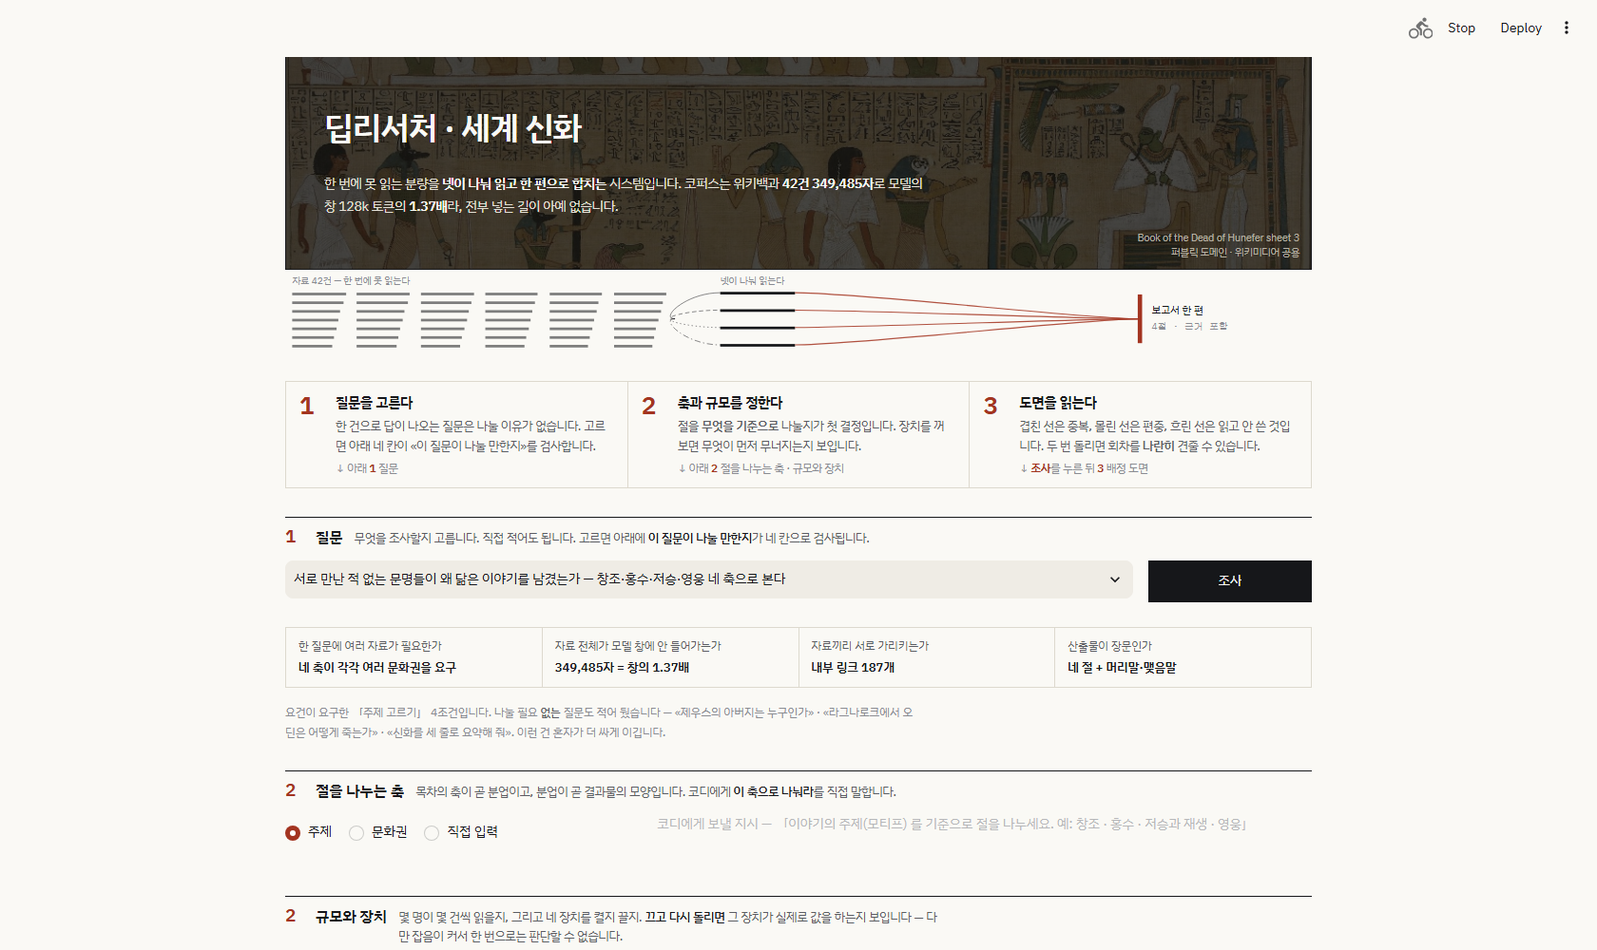
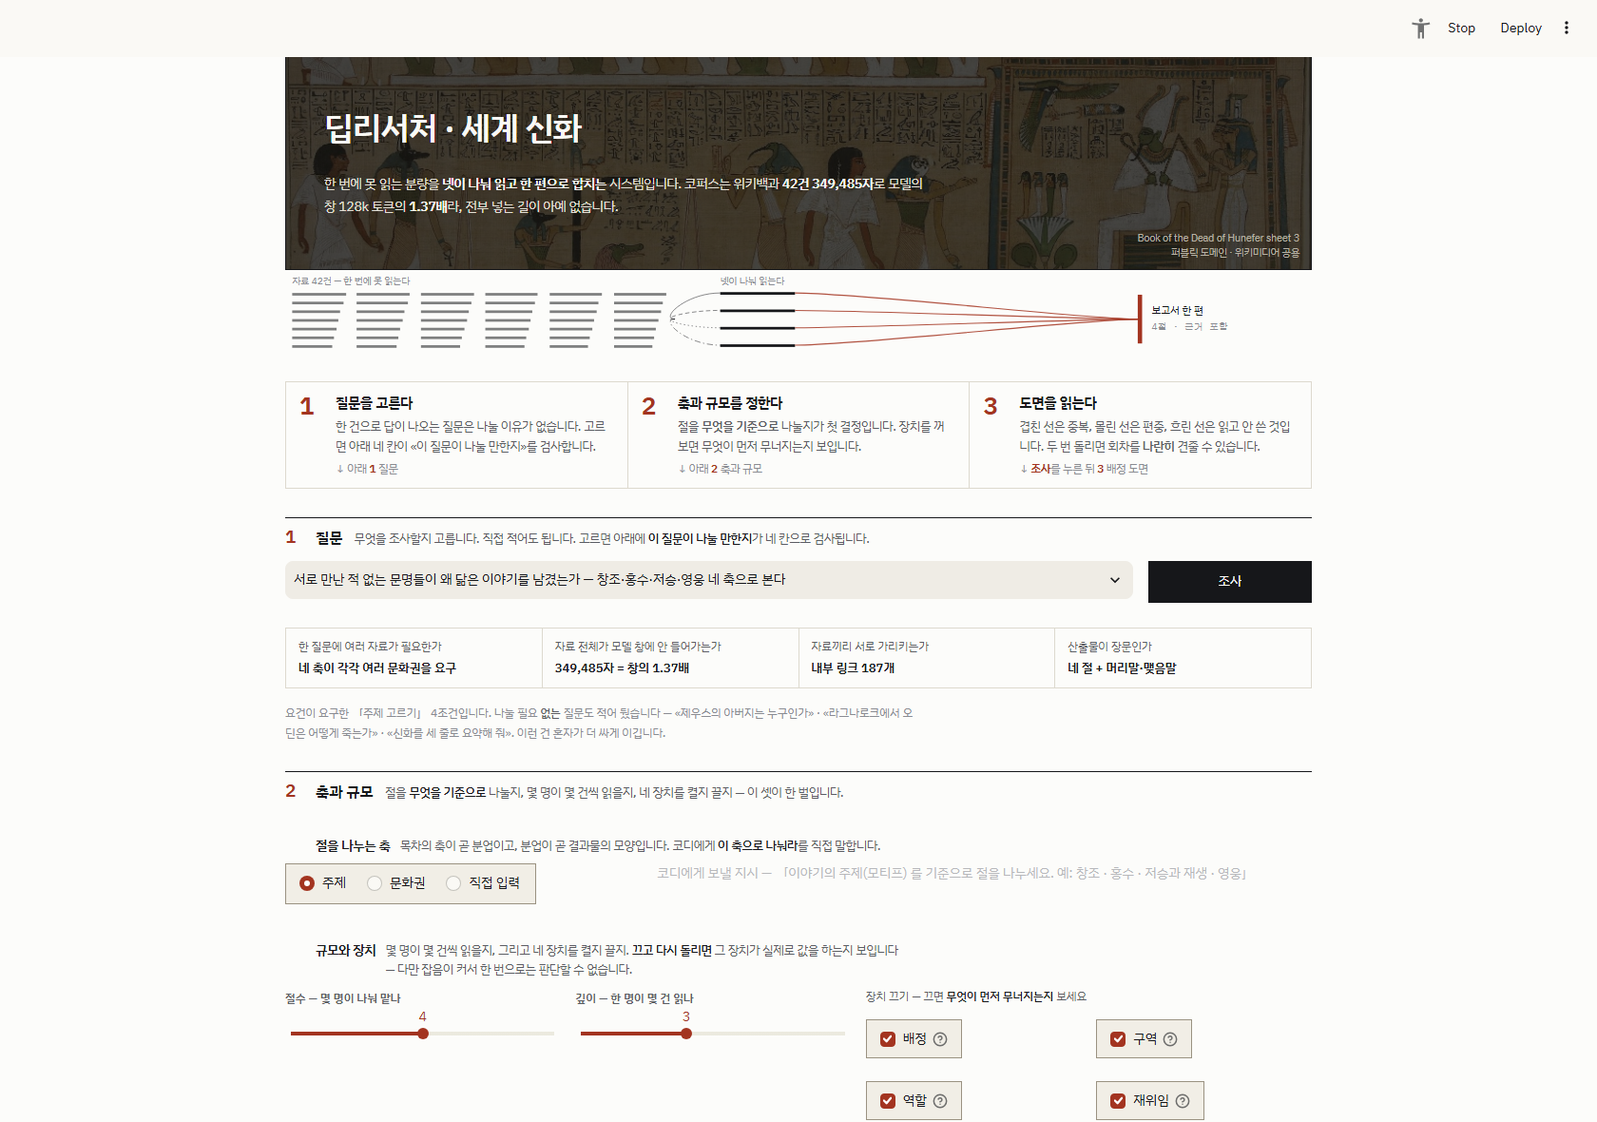
fix(m5n9): 조작면으로 위계 · 죽어 있던 표 · 번호 겹침 · 그물 구멍 셋
주영님 지적 둘에서 시작해 ★내 버그 넷이 드러났다.

★「뭘 눌러야 하는지 모르겠다」 — 색이 아니라 «면»이 없었다
  찾아보니 원인이 색의 «가짓수»가 아니었다.
    NN/g       그림자를 뺐으면 색이 두 배로 일한다.
               글자 4.5:1 만이 아니라 ★조작요소 «경계»가 3:1 (WCAG 1.4.11)
    Atlassian  평면 디자인의 elevation 은 그림자가 아니라 ★면 색의 차이
  ⇒ 미색을 «페이지»에서 «조작면»으로 옮겼다.
    전  페이지가 미색 · 조작요소는 그 위 연한 테두리   ⇒ 글과 안 갈림
    후  페이지는 밝게 · 조작요소만 미색 면 + 진한 경계  ⇒ 누를 곳이 뜬다
  ⛔새 색을 들이지 않았다 — 쓰던 미색의 «자리만» 옮겼다. 그림자는 여전히 0.
  ★경계색은 3:1 을 넘는 «가장 밝은» 값을 찾아 골랐다(#9A9281 · 3.01:1).
    처음 고른 #9C9483 은 2.93:1 로 ★0.07 모자라 assert 에 걸렸다 — 눈으론 모를 차이.
  배경 #FAF9F5 → #FCFCFA (흰색까지 남은 색 21 → 11 · ★48% 뺌)

★캡처가 «죽어 있던 표»를 찾아냈다 — 두 번째로 UI 가 버그를 드러냈다
  ArrowTypeError: Conversion failed for column 값
  계기판 표의 값 열에 문자열(「3건」)과 정수가 섞여 Arrow 가 통일을 못 했고,
  ★표가 통째로 죽으며 뒤 렌더링이 멈췄다.
  ⚠expander 안이라 «접혀 있으면 안 보인다» — 손으로 찍었으면 끝내 몰랐다.
  ① 숫자만 볼 땐 안 보였다 → 도면을 그리니 판정 이중화가 드러났다
  ② 손으로 찍을 땐 안 보였다 → 자동으로 찍으니 죽은 표가 드러났다

★그물에 구멍이 셋 있었다 — 이 프로젝트의 주제가 그대로 나에게 왔다
  ① 「문법 OK」인데 앱은 죽어 있었다
     css() 는 % 포매팅을 쓴다. width:100% 를 그냥 적었더니 ast.parse 는
     통과하고 «부르는 순간» TypeError. 레드팀은 「문법 ui.py OK」라 했다.
     ⇒ ★파싱은 실행이 아니다. 이제 ui.css() 를 «실제로 부른다».
  ② 전역 클래스 .sub 가 괘선()·표제와 겹쳐 ★엉뚱한 안내문이 줄줄이 끊겼다
     ⇒ 겹치는 최상위 클래스를 «센다».
  ③ 손으로 박은 수치가 또 거짓말 — ★네 번째 같은 사고
     빈 화면 안내에 「12번 · 15.0%p · 11.7%p」. 실측은 15번 · 25.6 · 17.8.
     ⇒ compare.잡음대차이() 한 곳에서 찍어낸다.
     ①config.json 밖 도메인값 ②metrics 밖 판정 ③같은설정 목록 ④이번.
     ★적어 둔다고 안 새고, «찍어내게» 만들어야 안 샌다.

번호가 2 · 2 로 겹쳤다 — 번호가 순서의 증거 구실을 못 한다
  축과 규모를 두 띠로 나눠 놓고 둘 다 2 를 달았다. 한 띠로 합쳤다.
[…]

diff --git a/05_module5/d_hw_N9-myth-research/app.py b/05_module5/d_hw_N9-myth-research/app.py
@@ -107,6 +107,23 @@ else:
 #   막대 하나가 실제 문서이고 길이가 실제 글자 수다.
 H('<div class="hero">%s</div>' % mapviz.표제(agent.DOCS, agent.설정["절수"]))
 
+def _잡음문장():
+    """★수치를 «손으로» 적지 않는다 — 측정 파일에서 찍어낸다."""
+    r = compare.잡음대차이()
+    if not r:
+        return ("아직 절제 실험 기록이 없습니다 — "
+                "<code>python ablation.py</code> 를 돌리면 "
+                "여기에 잡음 폭이 적힙니다.")
+    크다 = r["잡음"] > r["차이"]
+    return ("미리 적어 둡니다 — 같은 설정을 <b class='num'>%d</b>번 돌려 잰 "
+            "잡음이 <b class='num'>%.1f%%p</b>이고, 장치를 바꾼 조건 "
+            "<b class='num'>%d</b>개의 차이는 <b class='num'>%.1f%%p</b>입니다. "
+            "<b>%s</b> 한 번 돌린 숫자로 판단하지 마세요."
+            % (r["n"], r["잡음"] * 100, r["조건수"], r["차이"] * 100,
+               "잡음이 차이보다 큽니다."
+               if 크다 else "차이가 잡음보다 큽니다."))
+
+
 # ★사용법 — 처음 온 사람은 아래 칸들이 «왜» 있는지 모른다
 H('<div class="how">'
   '<div class="s"><div class="n">1</div><div>'
@@ -118,8 +135,8 @@ H('<div class="how">'
   '<div class="t">축과 규모를 정한다</div>'
   '<div class="d">절을 <b>무엇을 기준으로</b> 나눌지가 첫 결정입니다. '
   '장치를 꺼 보면 무엇이 먼저 무너지는지 보입니다.</div>'
-  '<div class="go">↓ 아래 <b style="color:%s">2</b> 절을 나누는 축 · 규모와 장치'
-  '</div></div></div>'
+  '<div class="go">↓ 아래 <b style="color:%s">2</b> 축과 규모</div>'
+  '</div></div>'
   '<div class="s"><div class="n">3</div><div>'
   '<div class="t">도면을 읽는다</div>'
   '<div class="d">겹친 선은 중복, 몰린 선은 편중, 흐린 선은 읽고 안 쓴 것입니다. '
@@ -164,10 +181,15 @@ H('<div class="note">요건이 요구한 「주제 고르기」 4조건입니다
                for x in QS["⛔나눌 필요 없음 — 대조용 반례"]))
 
 # ── ★축 — 이 프로젝트의 핵심 조작. 맨 앞에 둔다 ──────────────────
+# ★한 띠다 — 머리의 「2 축과 규모를 정한다」와 «글자까지» 맞춘다.
+#   전에는 여기와 아래가 각각 «2» 를 달아, 번호가 순서의 증거 구실을 못 했다.
 H('<div class="bar"><div class="no">2</div>'
-  '<div class="lbl">절을 나누는 축</div>'
-  '<div class="hint">목차의 축이 곧 분업이고, 분업이 곧 결과물의 모양입니다. '
-  '코디에게 <b>이 축으로 나눠라</b>를 직접 말합니다.</div></div>')
+  '<div class="lbl">축과 규모</div>'
+  '<div class="hint">절을 <b>무엇을 기준으로</b> 나눌지, 몇 명이 몇 건씩 읽을지, '
+  '네 장치를 켤지 끌지 — 이 셋이 한 벌입니다.</div></div>')
+H('<div class="pair"><b>절을 나누는 축</b>'
+  '<span>목차의 축이 곧 분업이고, 분업이 곧 결과물의 모양입니다. '
+  '코디에게 <b>이 축으로 나눠라</b>를 직접 말합니다.</span></div>')
 a1, a2 = st.columns([1.1, 2])
 with a1:
     _축들 = ["주제", "문화권", "직접 입력"]
@@ -193,11 +215,10 @@ with a2:
                    "예: %s」" % (축지시["이름"], 축지시["예"]))
 
 # ── 설정 — ⛔접지 않는다. 지금 값이 «보여야» 한다 ─────────────────
-H('<div class="bar"><div class="no">2</div>'
-  '<div class="lbl">규모와 장치</div>'
-  '<div class="hint">몇 명이 몇 건씩 읽을지, 그리고 네 장치를 켤지 끌지. '
+H('<div class="pair"><b>규모와 장치</b>'
+  '<span>몇 명이 몇 건씩 읽을지, 그리고 네 장치를 켤지 끌지. '
   '<b>끄고 다시 돌리면</b> 그 장치가 실제로 값을 하는지 보입니다 — '
-  '다만 잡음이 커서 한 번으로는 판단할 수 없습니다.</div></div>')
+  '다만 잡음이 커서 한 번으로는 판단할 수 없습니다.</span></div>')
 b1, b2, b3 = st.columns([1, 1, 1.6])
 with b1:
     절수 = st.slider("절수 — 몇 명이 나눠 맡나", 2, 6, agent.설정["절수"])
@@ -270,10 +291,7 @@ if not S:
        "질문을 고르고 <b>조사</b>를 누르면 문서 %d건이 조사관에게 어떻게 "
        "나뉘는지가 이 자리에 그려집니다. 선이 겹치면 중복이고, 한 문서로 "
        "몰리면 편중이고, 흐린 선은 읽고 쓰지 않은 것입니다.<br><br>"
-       "미리 적어 둡니다 — 같은 설정을 12번 돌려 잰 잡음이 "
-       "<b class='num'>15.0%%p</b>이고 장치를 바꾼 조건들의 차이는 "
-       "<b class='num'>11.7%%p</b>입니다. <b>잡음이 차이보다 큽니다.</b> "
-       "한 번 돌린 숫자로 판단하지 마세요." % co["문서"])
+       "%s" % (co["문서"], _잡음문장()))
     st.stop()
 
 m = S["metrics"]
@@ -376,10 +394,14 @@ H('<ul class="read">%s</ul>' % "".join(
     for a, b in mapviz.판독(agent.DOCS, secs, 실인용맵, m)))
 
 with st.expander("계기판 전체 — 지표마다 어느 장치를 보는 신호인가"):
+    # ★한 열에 «문자열과 정수»가 섞이면 Arrow 가 통일을 못 해 표가 통째로
+    #   죽는다(ArrowTypeError). 게다가 이건 expander 안이라 ★접혀 있으면
+    #   안 보인다 — 캡처를 자동으로 찍다가 드러났다.
+    #   ⇒ 화면에 내보내는 열은 «전부 문자열»로 맞춘다.
     st.table([{"지표": k,
                "값": ("%d건" % len(m[k])) if isinstance(m.get(k), list)
                else (("%.1f%%" % (m[k] * 100)) if isinstance(m.get(k), float)
-                     else m.get(k)),
+                     else str(m.get(k))),
                "종류": v["종류"].replace("★", ""), "어느 장치": v["장치"],
                "한 줄": v["한 줄"]}
               for k, v in 지표사전.items() if k in m])

diff --git a/05_module5/d_hw_N9-myth-research/ui.py b/05_module5/d_hw_N9-myth-research/ui.py
@@ -19,7 +19,7 @@
 
 # ── 토큰 — DESIGN.md §토큰 그대로 ─────────────────────────────────
 C = {
-    "paper": "#FAF9F5",    # 미색. ⛔순백 아님 · 베이지도 아님
+    "paper": "#FCFCFA",    # ★밝게. 미색은 «조작면»으로 옮겼다
     "ink": "#16171A",      # 본문. ⛔순흑 아님
     "ink60": "#5B5D63",
     "ink40": "#8A8C92",
@@ -27,6 +27,13 @@ C = {
     "rule2": "#EFECE5",
     "mark": "#A33420",     # ★강조 «단 하나» — 근거·경보·검토 표시
     "markbg": "#FBEAE5",
+    # ★조작면 — 「여기를 누르면 된다」를 «색»이 아니라 «면»으로 말한다.
+    #   평면 디자인의 elevation 은 그림자가 아니라 면 색 차이로 낸다
+    #   (Atlassian·GitLab). 그림자 0 을 지키면서 위계를 낸다.
+    "field": "#F1EEE6",
+    # ★WCAG 1.4.11 비텍스트 대비 — 조작요소 «경계»는 바탕 대비 3:1.
+    #   redteam.py 가 이 값을 «실제로 잰다».
+    "fieldline": "#9A9281",
 }
 
 # IBM Plex — 엔지니어링 도큐먼트용 서체. ⛔Inter·Geist·Space Grotesk 안 씀
@@ -48,6 +55,7 @@ def css():
 :root{
   --paper:%(paper)s; --ink:%(ink)s; --ink60:%(ink60)s; --ink40:%(ink40)s;
   --rule:%(rule)s; --rule2:%(rule2)s; --mark:%(mark)s; --markbg:%(markbg)s;
+  --field:%(field)s; --fieldline:%(fieldline)s;
 }
 
 /* ⛔그림자 0 · 그라디언트 0 · 글로우 0 — 도면에는 없다 */
@@ -144,9 +152,45 @@ div[data-testid="stExpander"]{border:0;border-top:1px solid var(--rule2);
 div[data-testid="stExpander"] summary{font-size:12.5px;color:var(--ink60);
   padding-left:0}
 div[data-testid="stExpander"] summary:hover{color:var(--mark)}
-[data-baseweb="select"]>div{border-radius:0;border-color:var(--rule);
-  background:transparent}
+/* ★누를 수 있는 것은 «면»으로 가른다 ─────────────────────────
+   전에는 글·라벨·입력칸이 모두 같은 바탕에 같은 색이라
+   「어디를 만지면 되나」가 안 보였다(주영님 지적).
+   ⛔색을 늘려 풀지 않는다 — 면과 «경계 대비»로 푼다. */
+[data-baseweb="select"]>div,
+.stTextInput input,
+.stNumberInput input{
+  border-radius:0!important;background:var(--field)!important;
+  border:1px solid var(--fieldline)!important;
+  font-family:'IBM Plex Sans KR',sans-serif}
+[data-baseweb="select"]>div:hover,
+.stTextInput input:hover{border-color:var(--ink)!important}
+[data-baseweb="select"]>div:focus-within,
+.stTextInput input:focus{border-color:var(--mark)!important;
+  outline:2px solid var(--mark);outline-offset:1px}
+[data-baseweb="popover"] li{font-family:'IBM Plex Sans KR',sans-serif}
+
+/* 라디오·체크박스 — 글자가 아니라 «고르는 것»으로 보이게 */
+.stRadio [role="radiogroup"],
+div[data-testid="stCheckbox"]{background:var(--field);
+  border:1px solid var(--fieldline);padding:9px 14px}
+.stRadio [role="radiogroup"]{display:flex;gap:20px;flex-wrap:wrap}
+/* ★폭을 칸에 맞춘다 — 글자 길이대로 두면 네 칸이 들쭉날쭉해
+   「같은 종류」로 안 읽힌다. 장치 넷은 대등한 넷이다. */
+div[data-testid="stCheckbox"]{margin-bottom:8px;width:100%%}
+div[data-testid="stCheckbox"]>label{width:100%%}
+div[data-testid="stCheckbox"]:hover,
+.stRadio [role="radiogroup"]:hover{border-color:var(--ink)}
+.stRadio label,div[data-testid="stCheckbox"] label{cursor:pointer}
+
+/* 슬라이더 — 홈이 파인 것처럼. ⛔그림자가 아니라 면 색이다 */
 .stSlider [data-baseweb="slider"] div[role="slider"]{background:var(--ink)}
+div[data-testid="stSliderTickBarMin"],
+div[data-testid="stSliderTickBarMax"]{color:var(--ink40)}
+
+/* ★위젯 «라벨»은 본문과 다른 층이다 — 굵기·크기로 가른다 */
+label[data-testid="stWidgetLabel"] p{font-size:12px!important;
+  font-weight:600!important;color:var(--ink60)!important;
+  letter-spacing:.01em}
 hr{border-color:var(--rule)}
 code{font-family:'IBM Plex Mono',monospace;background:transparent;
   color:var(--ink60);font-size:.9em;padding:0}
@@ -168,6 +212,17 @@ code{font-family:'IBM Plex Mono',monospace;background:transparent;
 .bar .lbl{font-size:16px;font-weight:600;flex:none}
 .bar .hint{font-size:12.5px;color:var(--ink60);line-height:1.65;max-width:76ch}
 .bar .hint b{color:var(--ink);font-weight:500}
+
+/* ★띠 «안»의 소제목 — 한 단계가 두 조작으로 나뉠 때.
+   ⚠이름은 «.pair». 처음에 .sub 로 지었다가 괘선()·표제가 이미 쓰던 이름과
+     부딪혀, 안내문의 <b> 가 전부 flex 항목이 되어 ★줄줄이 끊겼다.
+     전역 클래스를 새로 만들 땐 «그 이름이 이미 있는지» 먼저 센다.
+   ⛔번호를 또 달지 않는다. 번호는 단계의 것이지 조작의 것이 아니다. */
+.pair{display:flex;align-items:baseline;gap:10px;flex-wrap:wrap;
+  margin:22px 0 8px;padding-left:32px}
+.pair>b{font-size:13.5px;font-weight:600;flex:none}
+.pair span{font-size:12.5px;color:var(--ink60);line-height:1.65;max-width:72ch}
+.pair span b{color:var(--ink);font-weight:500}
 
 /* ── 조건 칸 — ⛔글 덩어리 대신 «칸» ─────────────────────────── */
 .chk{display:grid;grid-template-columns:repeat(auto-fit,minmax(190px,1fr));

diff --git a/05_module5/d_hw_N9-myth-research/redteam.py b/05_module5/d_hw_N9-myth-research/redteam.py
@@ -254,6 +254,48 @@ for f in sorted(x for x in os.listdir(HERE) if x.endswith(".py")):
         친다("문법 %s" % f, BAD, str(e)[:60])
 
 
+
+# ── ⑪ ★«그려 본다» — 파싱은 실행이 아니다 ─────────────────────
+#   ui.css() 는 % 포매팅을 쓴다. CSS 에 맨 % 를 적으면 ast.parse 는
+#   통과하지만 «부르는 순간» TypeError 로 죽는다. 실제로 그랬다.
+try:
+    import ui as _ui
+    _css = _ui.css()
+    assert len(_css) > 2000 and "--paper" in _css
+    친다("ui.css() 실제 호출", OK, "%d자 · 토큰 꽂힘" % len(_css))
+except Exception as e:
+    친다("ui.css() 실제 호출", BAD, "%s: %s" % (type(e).__name__, str(e)[:44]))
+
+#   ★전역 클래스 이름이 겹치면 «먼 곳»이 조용히 망가진다.
+#   .sub 를 새로 지었다가 괘선()·표제가 쓰던 것과 부딪혀
+#   안내문의 <b> 가 전부 flex 항목이 되어 줄줄이 끊겼다.
+try:
+    import re as _re
+    _본문 = _ui.css()
+    _본문 = _본문[:_본문.index("@media (prefers-reduced-motion")]
+    _뿌리 = _re.findall(r"^\.([a-z][a-z0-9-]*)\{", _본문, _re.M)
+    _겹침 = sorted({c for c in _뿌리 if _뿌리.count(c) > 1})
+    친다("전역 클래스 이름 겹침", BAD if _겹침 else OK,
+       ("★" + " · ".join(_겹침)) if _겹침 else "겹치는 최상위 클래스 없음")
+except Exception as e:
+    친다("전역 클래스 이름 겹침", WARN, str(e)[:50])
+
+#   ★WCAG 1.4.11 — 조작요소 «경계»는 바탕 대비 3:1.
+#   「뭘 눌러야 하는지 모르겠다」를 «잴 수 있는 것»으로 바꾼 자리다.
+try:
+    def _L(h):
+        h = h.lstrip("#")
+        v = [int(h[i:i + 2], 16) / 255 for i in (0, 2, 4)]
+        v = [c / 12.92 if c <= .03928 else ((c + .055) / 1.055) ** 2.4
+             for c in v]
+        return .2126 * v[0] + .7152 * v[1] + .0722 * v[2]
+    _x = sorted([_L(_ui.C["fieldline"]), _L(_ui.C["paper"])], reverse=True)
+    _r = (_x[0] + .05) / (_x[1] + .05)
+    친다("조작요소 경계 대비 (WCAG 1.4.11)", OK if _r >= 3.0 else BAD,
+       "%.2f:1 (요구 3.0)" % _r)
+except Exception as e:
+    친다("조작요소 경계 대비 (WCAG 1.4.11)", WARN, str(e)[:50])
+
 # ── 출력 ──────────────────────────────────────────────────────
 def main():
     print("═══ 레드팀 — 「내가 채점자라면 어디를 칠까」 ═══\n")

diff --git a/05_module5/d_hw_N9-myth-research/compare.py b/05_module5/d_hw_N9-myth-research/compare.py
@@ -51,6 +51,31 @@ def 잡음범위():
             "평균": sum(pool) / len(pool)}
 
 
+
+def 잡음대차이():
+    """★「잡음이 차이보다 큰가」를 «한 곳»에서 잰다.
+
+    잡음 = 완전히 같은 설정을 여러 번 돌렸을 때 근거율이 흩어진 폭
+    차이 = 장치를 바꾼 조건들의 «평균»이 벌어진 폭 (혼자(solo)는 뺀다 —
+           혼자는 애초에 다른 장치가 아니라 다른 «방식»이다)
+
+    ⛔이 문장을 화면·README·REPORT 에 손으로 적지 않는다.
+      옛 판은 app.py 에 「12번 · 15.0%p · 11.7%p」를 박아 뒀고,
+      회차가 15번으로 늘자 ★그대로 거짓말이 됐다.
+    """
+    p = os.path.join(HERE, "output/ablation.json")
+    if not os.path.exists(p):
+        return None
+    rows = json.load(io.open(p, encoding="utf-8"))["rows"]
+    pool = 같은설정_원시값(rows)
+    평균들 = [r["근거율"] for r in rows if "solo" not in r["조건"]]
+    if len(pool) < 4 or len(평균들) < 2:
+        return None
+    return {"n": len(pool),
+            "잡음": max(pool) - min(pool),
+            "차이": max(평균들) - min(평균들),
+            "조건수": len(평균들)}
+
 def 띠(값, 범위, W=300, H=44, C=None):
     """★잡음 띠 — 이 값이 «읽을 수 있는 차이인가»를 그 자리에서 말한다.
 

diff --git a/05_module5/d_hw_N9-myth-research/sync_numbers.py b/05_module5/d_hw_N9-myth-research/sync_numbers.py
@@ -38,7 +38,7 @@ def 절제표():
     n = rows[0].get("회차", 1)
 
     # ★목록은 compare.py 한 곳에만 있다 — 두 곳에 두니 갈렸다
-    from compare import 같은설정, 같은설정_원시값
+    from compare import 같은설정, 같은설정_원시값, 잡음대차이, 잡음대차이
     pool = 같은설정_원시값(rows)
 
     out = [A0, "", "```"]
@@ -56,7 +56,8 @@ def 절제표():
 
     if len(pool) >= 6:
         평균들 = [r["근거율"] for r in rows if "solo" not in r["조건"]]
-        잡음 = max(pool) - min(pool)
+        # ★문장은 compare.잡음대차이() 한 곳에서 — app.py 와 갈리면 안 된다
+        잡음 = 잡음대차이()["잡음"]
         차이 = max(평균들) - min(평균들)
         solo = [r for r in rows if "solo" in r["조건"]]
         sp = [x["근거율"] for x in solo[0].get("_회차별", [])] if solo else []

diff --git a/05_module5/d_hw_N9-myth-research/DESIGN.md b/05_module5/d_hw_N9-myth-research/DESIGN.md
@@ -49,12 +49,14 @@
 
 | 이름 | 값 | 쓰는 곳 |
 |---|---|---|
-| `paper` | `#FAF9F5` | 배경. 미색. ⛔순백도 베이지도 아님 — 1차 #F4F2ED 는 ★너무 누랬다(대비도 낮았다) |
+| `paper` | `#FCFCFA` | 배경. 미색. ⛔순백도 베이지도 아님 — 1차 #F4F2ED 는 ★너무 누랬다(대비도 낮았다) |
 | `ink` | `#16171A` | 본문. ⛔순흑 아님 |
 | `ink60` | `#5B5D63` | 보조 |
 | `ink40` | `#8A8C92` | 캡션 |
 | `rule` | `#DDD9CE` | ★괘선 — 이 디자인의 주 구조 요소 |
 | `rule2` | `#EFECE5` | 옅은 괘선 |
+| `field` | `#F1EEE6` | ★조작면. 미색이 «여기로» 왔다 — 누를 수 있는 것만 이 면에 얹는다 |
+| `fieldline` | `#9A9281` | 조작요소 경계. ★종이 대비 3.01:1 (WCAG 1.4.11 요구 3.0) |
 | `mark` | `#A33420` | ★강조색 **단 하나**. 근거·경보·검토 표시 |
 | `markbg` | `#FBEAE5` | 경보 바탕 (보더 아님 — ★#11 회피) |
 
@@ -130,3 +132,31 @@ prefers-reduced-motion 존중 · 전환 150ms 이하
 ```
 
 `redteam.py` 가 이 값들을 **실제로 재서** 확인합니다.
+
+## ★면(surface) — 「어디를 누르나」를 색이 아니라 면으로 말한다
+
+3판 첫 판은 **글·라벨·입력칸이 전부 같은 바탕에 같은 색**이었다.
+주영님 지적 — 「텍스트 색깔이 다 똑같다 보니 뭘 눌러야 되는지 모르겠다」.
+
+찾아보니 **원인은 색의 가짓수가 아니었다.**
+
+```
+NN/g         그림자를 뺐으면 ★색이 두 배로 일한다.
+             글자 4.5:1 만이 아니라 ★조작요소 «경계»가 3:1 (WCAG 1.4.11)
+Atlassian    평면 디자인의 elevation 은 그림자가 아니라 ★면 색의 차이
+GitLab       면이 안 갈리면 조작요소가 «배경의 일부»로 읽힌다
+```
+
+⇒ **미색을 페이지에서 조작면으로 옮겼다.**
+
+```
+전   페이지가 미색 · 조작요소는 그 위 연한 테두리   ⇒ 글과 안 갈림
+후   페이지는 밝게 · 조작요소만 미색 면 + 진한 경계  ⇒ 누를 곳이 떠 보인다
+```
+
+★**새 색을 들이지 않았다.** 쓰던 미색의 **자리만** 옮겼다.
+제도판 위에 종이를 얹은 모양이라 「측량 도면」 은유도 깨지지 않는다.
+⛔그림자는 여전히 0 이다.
+
+**규칙 — 이 면에는 «누를 수 있는 것»만 얹는다.** 설명글을 여기 얹으면
+신호가 망가진다. 면이 곧 약속이다.

diff --git a/05_module5/d_hw_N9-myth-research/README.md b/05_module5/d_hw_N9-myth-research/README.md
@@ -198,6 +198,8 @@ output/runs.jsonl     회차 누적 · reports/ 보고서 · ablation.json · ba
 
 ![데모](docs/demo.png)
 
+★도면·판독까지 담긴 **전체 화면 한 장**은 [REPORT §9](REPORT.md) 에 있습니다.
+
 ```bash
 streamlit run app.py        # 로컬 실행까지가 필수 요건입니다
 ```
